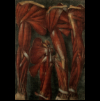
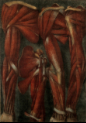
Improved Organ thumbnails; added background to Popup text for legibility

diff --git a/src/initialData.js b/src/initialData.js
@@ -633,36 +633,9 @@ const initialData = [
     title: "De L'Autre....",
     image: `${imgUrlRoot + 'OtherHand.jpg'}`,
     thumbnail: `${imgUrlRoot + 'OtherHand_tn.jpg'}`,
-    quotation: `'Something about the other hand.' - Someone`,
     top: "43.8%",
     left: "22.3%",
-    tabs: [
-      {name: "The Body Politic", content: `'The act of neurofeedback gives users an idea, an image, about their selves that is rather computerized. They describe the neurofeedback process as a "defragmentation of your computer", "cubes put in the right order", "a computer wiring me", "the program that reacts on the waves in your head", "my system is unstable", "my system resets itself over and over again". One could say that in the search for a better self the brain becomes an important partner for the user. This brain thinks for, speaks with, works on, and interferes with the user. It can split into neurotransmitters, brainwaves, neurons, substances and alpha-things. It interacts with the user’s world, life, psychology and ideas, but also the other way around. It can withhold the user from her or his real self, or it can change or cure this real self.
-      New technologies of the self give rise to new selves, stated Foucault, and in the case of the brain devices this is clearly the case. The act of manipulating the brain with a device makes people very aware of their biological constitution. First they learn that their problems are brain problems, then they see these problems visualized in their brain map, and next they interfere directly with their brains to fix these problems. In this process the brain is clearly separated from the self. But more than that, users of brain devices need more and more entities to explain their selves and their healing process.' - Jonna Brennkinmeijer`},
-      {name: "Out of Body Experience", content: `'Thought is not arborescent, and the brain is not a rooted or ramified matter. What are wrongly called "dendrites" do not assure the connection of neurons in a continuous fabric. The discontinuity between cells, the role of the axons, the functioning of the synapses, the existence of synaptic microfissures, the leap each message makes across these fissures, make the brain a multiplicity immersed in its plane of consistency or neuroglia, a whole uncertain, probabilistic system ("the uncertain nervous system"). Many people have a tree growing in their heads, but the brain itself is much more a grass than a tree. "The axon and the dendrite twist around each other like bindweed around brambles, with synapses at each of the thorns."' - Gilles Deleuze and Félix Guattari`},
-      {name: "Corpus Delicti", content:`'All his life Walt Whitman believed in the science of phrenology – you know, reading the bumps on the skull. Whitman was interested in brains and skulls – thought they could tell you everything about a man’s character. Anyway, when Whitman lay dying over there in New Jersey about fifty or sixty years ago, he agreed to let them perform an autopsy on him after he was dead. A lot of people thought he was a genius, you see, and they wanted to take a look at his brain to find out if there was anything special about it. So, the day after he died, a doctor removed Whitman's brain - cut it right out of his head - and had it sent to the American Anthropometric Society to be measured and weighed. But this is where the story gets interesting. The brain arrives at the laboratory, and just as they're about to get to work on it, one of the assistants drops it on the floor. A brain isn't very tough you know. It splattered all over the place, and that was that. The brain of America’s greatest poet got swept up and thrown out with the garbage. It’s sad to think of poor Walt lying in his grave, though. All alone and without any brains.' - Paul Auster`},
-      {name: "Foreign Body", content: `'Es importante tener en cuenta que cierta sobreexigencia puede derivar, sobre todo cuando el cerebro está en desarrollo, en un trastorno compulsivo. La persona que  transita largas sesiones conectada en detrimento de otras actividades, con necesidad imperiosa de conectarse y gran malestar si no puede, con dificultades para autolimitarse y con efectos nocivos en su estado de ánimo (usualmente depresión y ansiedad), tiene los síntomas más frecuentes de este trastorno adictivo.
-      Esto no significa que los usos normales de estas tecnologías lleven a esta condición, sino que, por lo general, quienes la padecen son personas que presentan una neurobiología particular que los hace más vulnerables a caer en estas conductas compulsivas.
-      Borges (otra vez Borges) describió en uno de sus relatos a la de Babel como una biblioteca total e interminable, con una naturaleza informe y caótica, pero que a través de ella el universo estaba justificado, que con ella el universo había usurpado bruscamente las dimensiones ilimitadas de la esperanza. Muchos leyeron esto como una alegoría anticipatoria de Internet. Parece ser que también, cuando se trata de nuevas tecnologías y neurociencias, se debe invocar al maestro.' - Facundo Manes and Mateo Niro`},
-      {name: "The Body Text", content: `
-        The brain is wider than the sky,<br>
-          For, put them side by side,
-        The one the other will include
-          With ease, and you beside.
-
-        The brain is deeper than the sea,
-          For, hold them, blue to blue,
-        The one the other will absorb,
-          As sponges, buckets do.
-
-        The brain is just the weight of God,
-          For, lift them, pound for pound,
-        And they will differ, if they do,
-          As syllable from sound.
-
-                            Emily Dickinson`
-      },
-    ]
+    tabs: []
   }
 ]
 

diff --git a/src/HotSpot.js b/src/HotSpot.js
@@ -91,7 +91,7 @@ class HotSpot extends Component {
               ? "EasterEgg"
               : "HotSpot"} onMouseEnter={this.truthifyCursorOverHotspot} onMouseLeave={this.falsifyCursorOverHotspot} style={{top: organ.top, left: organ.left}} id={organ.id}></div>
           {
-            <div className="popup"
+            <div className="popup popup-background"
                  onMouseEnter={this.truthifyCursorOverPopup}
                  onMouseLeave={this.falsifyCursorOverPopup}
                  style={this.state.showPopup
@@ -103,8 +103,8 @@ class HotSpot extends Component {
                 ? this.handleOrganThumbnailClick
                 :null
               }
-              src={organ.thumbnail} alt={organ.organ}/>
-              <p>{organ.quotation}</p>
+                src={organ.thumbnail} alt={organ.organ}/>
+              <p className="popup-background">{organ.quotation}</p>
              </div>
 
           }

diff --git a/src/App.css b/src/App.css
@@ -67,6 +67,10 @@
   height: 15em;
 }
 
+.popup-background {
+  background: rgba(25, 25, 25, 0.5);
+}
+
 .organ-blowup {
   display: block;
   max-height: 120vh;
@@ -120,7 +124,7 @@
   margin-right: auto;
   width: 50%;
 }
-/* 
+/*
 .tabcontent p.active {
   transition: opacity 2s ease;
   animation: fadeEffect 2s;
